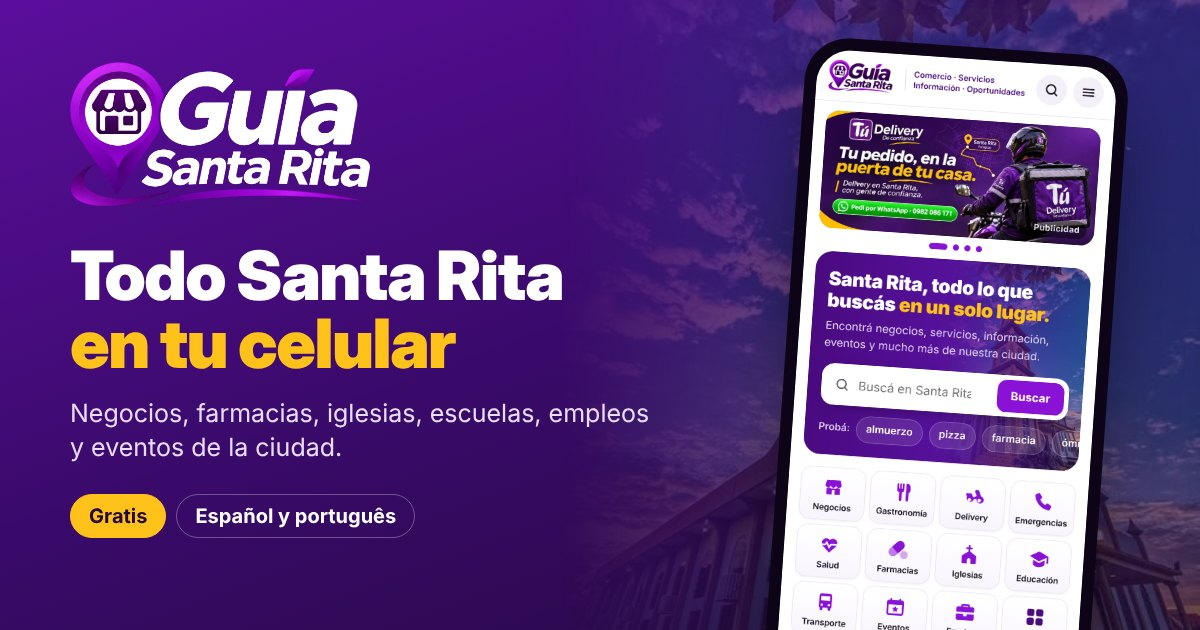
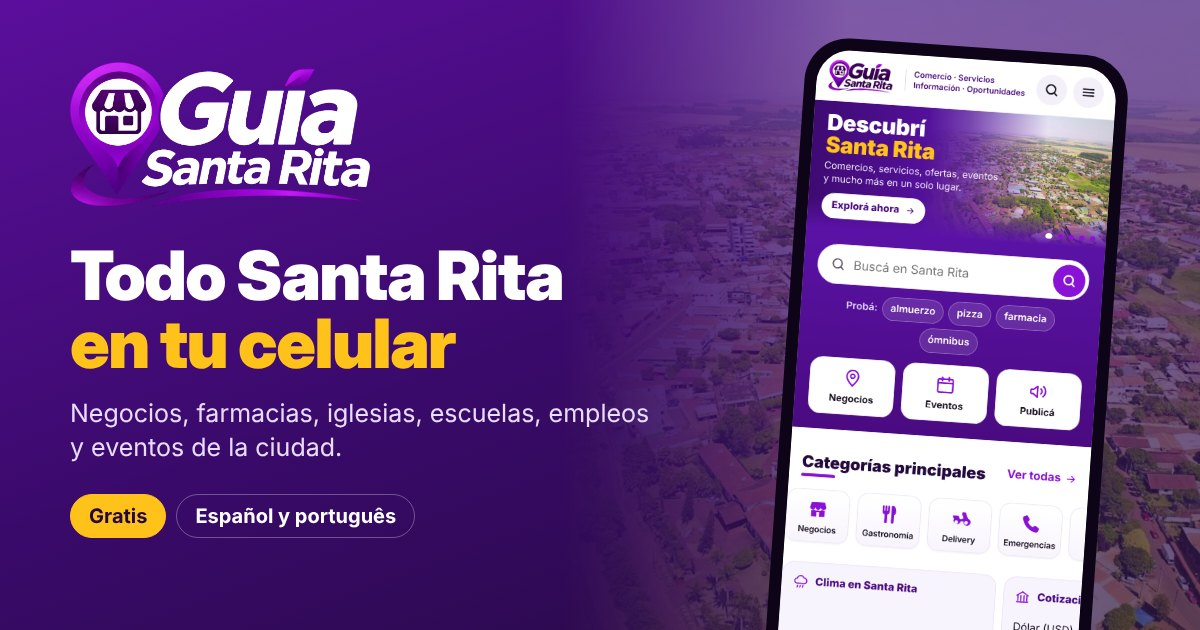
Guía: imagem de prévia do link com o celular mostrando o site atual
Claude-Session: https://claude.ai/code/session_019EnWZ2w3FzxJZ5bukhMXBN

Changed region(s): [[0.5242, 0.0, 1.0, 1.0], [0.555, 0.7238, 0.5858, 0.754]]

diff --git a/araujo-tech-site/guia/conoce/index.html b/araujo-tech-site/guia/conoce/index.html
@@ -4,7 +4,7 @@
 <title>Conocé Santa Rita: historia, lugares y videos | Guía de Santa Rita</title>
 <meta name="description" content="Cómo es Santa Rita, Alto Paraná, antes de venir: su historia, dónde queda, de qué vive, lugares para conocer y videos de quienes la recorrieron. En español y portugués.">
 <link rel="canonical" href="https://guiadesantarita.com/conoce/">
-<meta property="og:type" content="website"><meta property="og:title" content="Conocé Santa Rita | Conheça Santa Rita"><meta property="og:description" content="Historia, lugares para conocer, lo que la ciudad tiene y videos de Santa Rita, Alto Paraná."><meta property="og:image" content="https://araujotechsistemas.com/img/guia/og-guia.jpg?v=2"><meta property="og:url" content="https://guiadesantarita.com/conoce/">
+<meta property="og:type" content="website"><meta property="og:title" content="Conocé Santa Rita | Conheça Santa Rita"><meta property="og:description" content="Historia, lugares para conocer, lo que la ciudad tiene y videos de Santa Rita, Alto Paraná."><meta property="og:image" content="https://araujotechsistemas.com/img/guia/og-guia.jpg?v=3"><meta property="og:url" content="https://guiadesantarita.com/conoce/">
 <link rel="icon" href="/img/guia/favicon.png?v=1"><meta name="theme-color" content="#24093F">
 <link rel="preconnect" href="https://fonts.googleapis.com"><link rel="preconnect" href="https://fonts.gstatic.com" crossorigin>
 <link href="https://fonts.googleapis.com/css2?family=Red+Hat+Display:wght@700;900&family=Red+Hat+Text:wght@400;500;700&display=swap" rel="stylesheet">

diff --git a/araujo-tech-site/guia/negocios/index.html b/araujo-tech-site/guia/negocios/index.html
@@ -4,7 +4,7 @@
 <title>Para negocios · Guía de Santa Rita | Vitrix</title>
 <meta name="description" content="Tu negocio en la Guía de Santa Rita: catálogo Vitrix con pedidos por WhatsApp, ficha simple o anuncio en la portada. Elegí cómo aparecer y te escribimos.">
 <link rel="canonical" href="https://guiadesantarita.com/negocios/">
-<meta property="og:type" content="website"><meta property="og:title" content="Tu negocio en la Guía de Santa Rita"><meta property="og:description" content="Tu negocio en la guía de Santa Rita, con catálogo y pedidos por WhatsApp."><meta property="og:url" content="https://guiadesantarita.com/negocios/"><meta property="og:image" content="https://araujotechsistemas.com/img/guia/og-guia.jpg?v=2">
+<meta property="og:type" content="website"><meta property="og:title" content="Tu negocio en la Guía de Santa Rita"><meta property="og:description" content="Tu negocio en la guía de Santa Rita, con catálogo y pedidos por WhatsApp."><meta property="og:url" content="https://guiadesantarita.com/negocios/"><meta property="og:image" content="https://araujotechsistemas.com/img/guia/og-guia.jpg?v=3">
 <link rel="icon" href="/img/guia/favicon.png?v=1"><link rel="apple-touch-icon" href="/guia/icon-180.png?v=2"><meta name="theme-color" content="#24093F">
 <link rel="preconnect" href="https://fonts.googleapis.com"><link rel="preconnect" href="https://fonts.gstatic.com" crossorigin>
 <link href="https://fonts.googleapis.com/css2?family=Red+Hat+Display:wght@700;900&family=Red+Hat+Text:wght@400;500;700&display=swap" rel="stylesheet">

diff --git a/araujo-tech-site/guia/index.html b/araujo-tech-site/guia/index.html
@@ -5,7 +5,7 @@
 <meta name="description" content="Guía de Santa Rita: negocios, delivery, farmacias, iglesias, escuelas, empleos, eventos y clasificados de Santa Rita, Alto Paraná. Gratis, en español y portugués. Una iniciativa de Araújo Tech Sistemas y Tu Delivery.">
 <meta property="og:title" content="Guía de Santa Rita · Todo Santa Rita en tu celular">
 <meta property="og:description" content="Negocios, delivery, farmacias, iglesias, escuelas, empleos, eventos y clasificados de Santa Rita. Gratis, en español y portugués.">
-<meta property="og:image" content="https://araujotechsistemas.com/img/guia/og-guia.jpg?v=2"><meta property="og:image:width" content="1200"><meta property="og:image:height" content="630">
+<meta property="og:image" content="https://araujotechsistemas.com/img/guia/og-guia.jpg?v=3"><meta property="og:image:width" content="1200"><meta property="og:image:height" content="630">
 <meta property="og:url" content="https://guiadesantarita.com/">
 <link rel="canonical" href="https://guiadesantarita.com/">
 <link rel="icon" href="/img/guia/favicon.png?v=1">

diff --git a/araujo-tech-site/guia/sobre/index.html b/araujo-tech-site/guia/sobre/index.html
@@ -4,7 +4,7 @@
 <title>Sobre la Guía de Santa Rita | Vitrix y Tu Delivery</title>
 <meta name="description" content="Qué es la Guía de Santa Rita, quién la hace (Vitrix y Tu Delivery), qué significan los sellos y cómo cuidamos tus datos.">
 <link rel="canonical" href="https://guiadesantarita.com/sobre/">
-<meta property="og:type" content="website"><meta property="og:title" content="Sobre la Guía de Santa Rita"><meta property="og:image" content="https://araujotechsistemas.com/img/guia/og-guia.jpg?v=2">
+<meta property="og:type" content="website"><meta property="og:title" content="Sobre la Guía de Santa Rita"><meta property="og:image" content="https://araujotechsistemas.com/img/guia/og-guia.jpg?v=3">
 <link rel="icon" href="/img/guia/favicon.png?v=1"><meta name="theme-color" content="#24093F">
 <link rel="preconnect" href="https://fonts.googleapis.com"><link rel="preconnect" href="https://fonts.gstatic.com" crossorigin>
 <link href="https://fonts.googleapis.com/css2?family=Red+Hat+Display:wght@700;900&family=Red+Hat+Text:wght@400;500;700&display=swap" rel="stylesheet">

diff --git a/tools/make_conoce.py b/tools/make_conoce.py
@@ -118,7 +118,7 @@ HTML = '''<!doctype html>
 <title>__TI__</title>
 <meta name="description" content="Cómo es Santa Rita, Alto Paraná, antes de venir: su historia, dónde queda, de qué vive, lugares para conocer y videos de quienes la recorrieron. En español y portugués.">
 <link rel="canonical" href="https://guiadesantarita.com/conoce/">
-<meta property="og:type" content="website"><meta property="og:title" content="Conocé Santa Rita | Conheça Santa Rita"><meta property="og:description" content="Historia, lugares para conocer, lo que la ciudad tiene y videos de Santa Rita, Alto Paraná."><meta property="og:image" content="https://araujotechsistemas.com/img/guia/og-guia.jpg?v=2"><meta property="og:url" content="https://guiadesantarita.com/conoce/">
+<meta property="og:type" content="website"><meta property="og:title" content="Conocé Santa Rita | Conheça Santa Rita"><meta property="og:description" content="Historia, lugares para conocer, lo que la ciudad tiene y videos de Santa Rita, Alto Paraná."><meta property="og:image" content="https://araujotechsistemas.com/img/guia/og-guia.jpg?v=3"><meta property="og:url" content="https://guiadesantarita.com/conoce/">
 <link rel="icon" href="/img/guia/favicon.png?v=1"><meta name="theme-color" content="#24093F">
 <link rel="preconnect" href="https://fonts.googleapis.com"><link rel="preconnect" href="https://fonts.gstatic.com" crossorigin>
 <link href="https://fonts.googleapis.com/css2?family=Red+Hat+Display:wght@700;900&family=Red+Hat+Text:wght@400;500;700&display=swap" rel="stylesheet">

diff --git a/araujo-tech-site/guia/p.php b/araujo-tech-site/guia/p.php
@@ -21,7 +21,7 @@ $EK = ['rel' => 'Religioso', 'dep' => 'Deportivo', 'cul' => 'Cultural', 'com' =>
 $MES = ['', 'ene', 'feb', 'mar', 'abr', 'may', 'jun', 'jul', 'ago', 'sep', 'oct', 'nov', 'dic'];
 $fd = function ($d) use ($MES) { return preg_match('/^(\d{4})-(\d{2})-(\d{2})$/', (string)$d, $m) ? (int)$m[3] . ' ' . $MES[(int)$m[2]] . ' ' . $m[1] : ''; };
 $wa = function ($n) { $n = preg_replace('/\D/', '', (string)$n); if ($n !== '' && $n[0] === '0') $n = '595' . substr($n, 1); elseif ($n !== '' && strpos($n, '595') !== 0 && strlen($n) <= 10) $n = '595' . $n; return $n; };
-$img = 'https://araujotechsistemas.com/img/guia/og-guia.jpg?v=2';
+$img = 'https://araujotechsistemas.com/img/guia/og-guia.jpg?v=3';
 if (!$x) {
   http_response_code(410);
   $title = 'Esta publicación ya no está disponible'; $desc = 'Venció o fue retirada. Mirá lo que hay hoy en la Guía de Santa Rita.'; $tags = []; $body = ''; $btns = ''; $ld = '';
